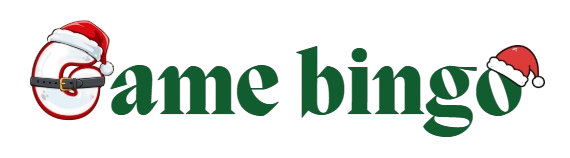
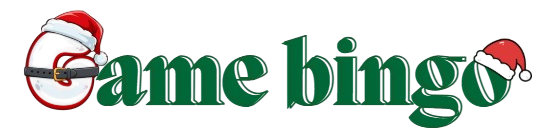
fix font title and hang

Changed region(s): [[0.0295, 0.0588, 0.5009, 0.8235], [0.5009, 0.2647, 1.0, 0.9412]]

diff --git a/bingo_game_responsive.css b/bingo_game_responsive.css
@@ -77,8 +77,8 @@
     position: relative;
     display: inline-block;
 
-    margin-top: -2.4em;   /* đẩy lên khỏi container */
-    margin-bottom: 1.5em; /* cách chuông bên dưới */
+    margin-top: -1.5em;   /* đẩy lên khỏi container */
+    margin-bottom: 1.0em; /* cách chuông bên dưới */
 }
 
 /* Ảnh */
@@ -94,7 +94,7 @@
     position: absolute;
 
     width: 4px;
-    height: 2.8em;
+    height: 4em;
 
     background: linear-gradient(
         to bottom,
@@ -102,7 +102,7 @@
         #ff4d4d
     );
 
-    top: -2.8em;
+    top: -4em;
     left: 50%;
     transform: translateX(-50%);
 
@@ -909,6 +909,10 @@
             max-width: 30em;
             min-width: 22em;
         }
+        .title-hang::before{
+            height: 10em;
+            top: -9em;
+        }
 
         }
 
@@ -1050,6 +1054,10 @@
 
         .history-section {
             margin-top: 8em;
+        }
+
+        .title-hang::before{
+            height: 4em;
         }
 
         }
